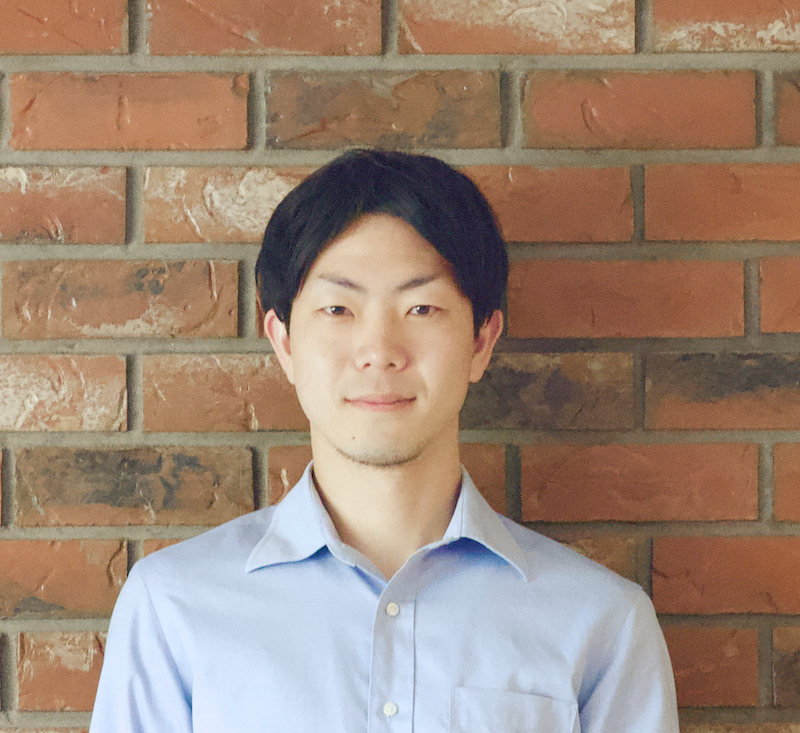
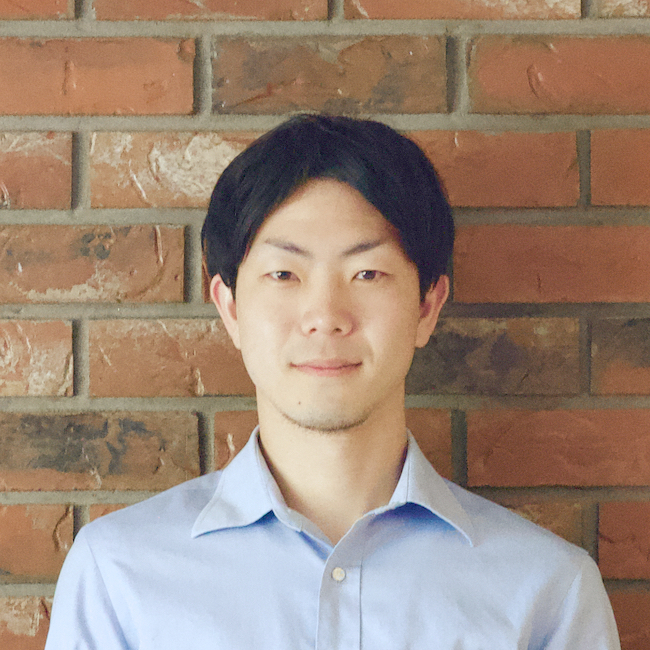
feat: add footer | improvement: resize the profile image

diff --git a/app/page.tsx b/app/page.tsx
@@ -9,7 +9,7 @@ import { FaEnvelope, FaGithub, FaInstagram, FaLinkedin } from "react-icons/fa6";
 export default function Home() {
   return (
     <main className="flex flex-col items-stretch justify-between text-center sm:text-left">
-      <div className="fixed z-0 h-screen bg-black object-cover">
+      <div className="fixed -z-50 h-screen bg-black object-cover">
         <img src="img/hero.jpg" />
       </div>
       <div className="z-10 flex justify-center bg-gradient-to-b from-transparent from-0% to-black py-24 lg:from-30%">
@@ -54,21 +54,21 @@ export default function Home() {
           <div className="flex flex-col gap-y-4">
             <p>
               {`Hi, I'm Seisuke, a software engineer/full-stack web developer with a
-              Bachelor's degree in Computer Science and 5+ years of experience in
-              software development. I have been dedicated to team goals with a passion
-              for building efficient, maintainable, and user-friendly systems. This
-              experience has provided me with the opportunity to acquire a wide range
-              of skills and experience, spanning from large-scale embedded
-              applications to web development.`}
+                Bachelor's degree in Computer Science and 5+ years of experience in
+                software development. I have been dedicated to team goals with a passion
+                for building efficient, maintainable, and user-friendly systems. This
+                experience has provided me with the opportunity to acquire a wide range
+                of skills and experience, spanning from large-scale embedded
+                applications to web development.`}
             </p>
             <p>
               {`Throughout my ten-year journey in the
-              field of software engineering, I have overcome numerous challenges in
-              both technical and managerial capacities, enhancing my problem-solving
-              skills along the way. With the experience I bring, coupled with my
-              refined problem-solving abilities and steadfast perseverance when
-              encountering difficulties, I'm eager to contribute significantly to your
-              team!`}
+                field of software engineering, I have overcome numerous challenges in
+                both technical and managerial capacities, enhancing my problem-solving
+                skills along the way. With the experience I bring, coupled with my
+                refined problem-solving abilities and steadfast perseverance when
+                encountering difficulties, I'm eager to contribute significantly to your
+                team!`}
             </p>
           </div>
         </div>

diff --git a/tailwind.config.ts b/tailwind.config.ts
@@ -13,12 +13,12 @@ const config: Config = {
     extend: {
       colors: {
         background: "#ffffff",
-        foreground: "#030712",
-        primary: "#002060",
+        foreground: "#222222",
+        primary: "#1d1d1d",
         "primary-foreground": "#f9fafb",
         border: "#e5e7eb",
         input: "#e5e7eb",
-        ring: "#002060", // same as primary
+        ring: "#002878", // same as primary
         secondary: "#f3f4f6",
         "secondary-foreground": "#111827",
         destructive: "#dd224f",

diff --git a/app/layout.tsx b/app/layout.tsx
@@ -16,7 +16,12 @@ export default function RootLayout({
 }>) {
   return (
     <html lang="en">
-      <body className={inter.className}>{children}</body>
+      <body className={inter.className}>
+        {children}
+        <footer className="z-50 bg-primary text-sm text-center text-white">
+          <p>©Seisuke Yamada All rights reserved.</p>
+        </footer>
+      </body>
     </html>
   );
 }
